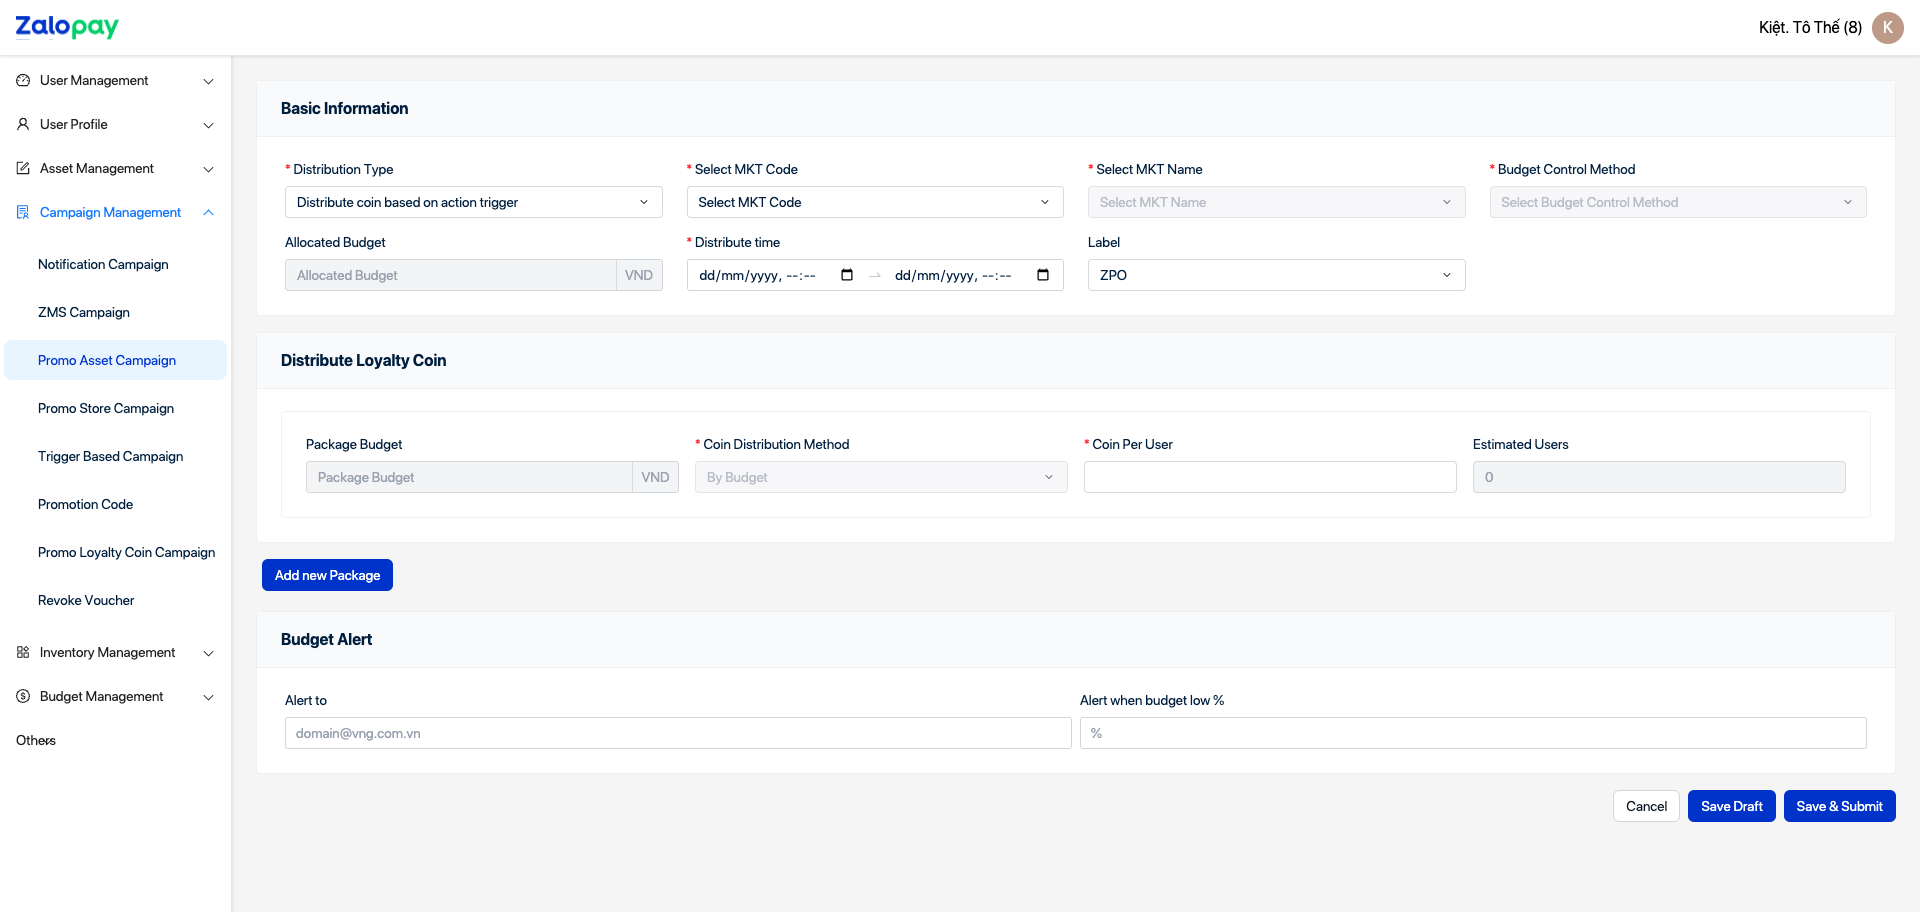
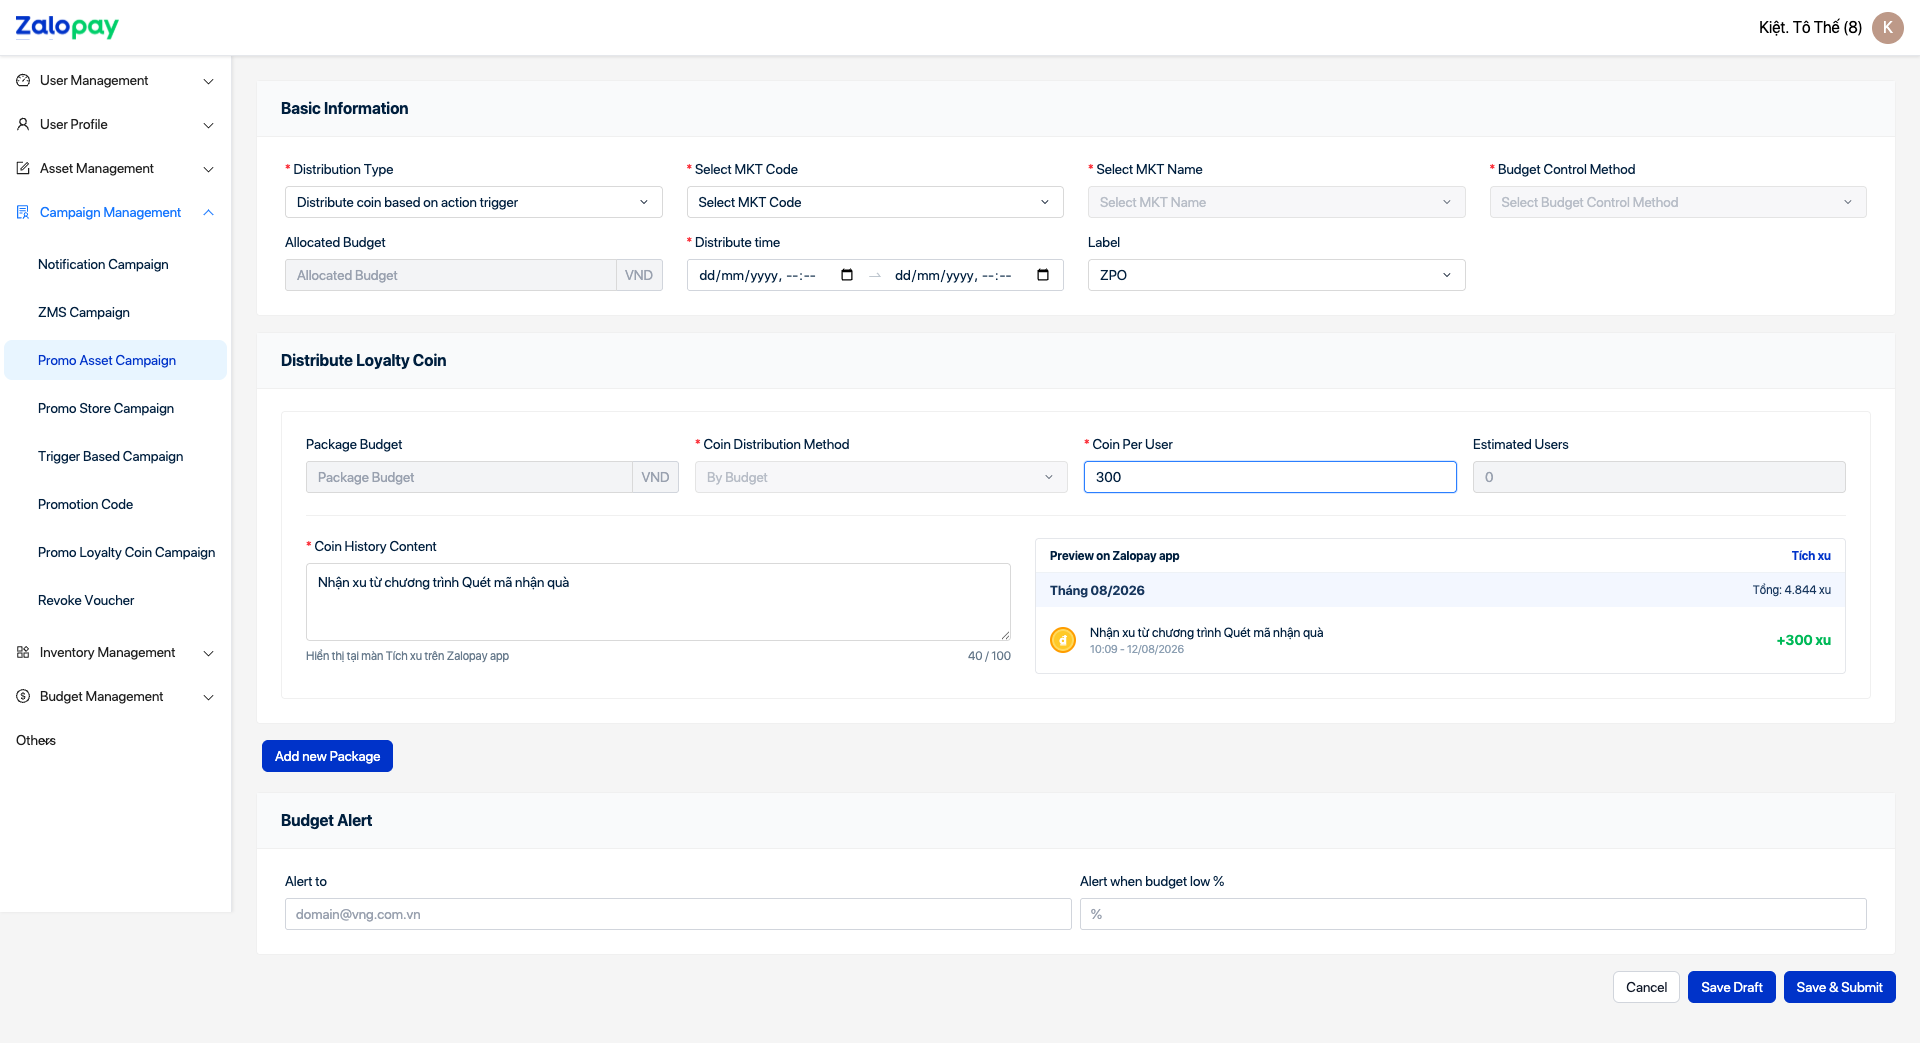
Add coin history content preview

diff --git a/styles.css b/styles.css
@@ -19,7 +19,7 @@
 * { box-sizing: border-box; }
 html { background: var(--canvas); color: #001f3e; font-family: "SF Pro Display", "SF Pro Text", -apple-system, BlinkMacSystemFont, "Segoe UI", sans-serif; font-size: 14px; }
 body { margin: 0; min-width: 320px; color: #001f3e; font-size: 14px; }
-button, input, select { font: inherit; color: inherit; }
+button, input, select, textarea { font: inherit; color: inherit; }
 button { cursor: pointer; }
 button:disabled { cursor: not-allowed; opacity: .5; }
 
@@ -48,7 +48,9 @@ main { margin-left: var(--sidebar); padding-top: var(--topbar); min-height: 100d
 main:focus { outline: none; }
 .screen { padding: 24px; max-width: 1688px; margin: 0 auto; color: #001f3e; font-size: 14px; }
 
-input, select { width: 100%; height: 32px; padding: 0 11px; border: 1px solid #d9d9d9; border-radius: 4px; background: white; outline: none; font-size: 14px; }
+input, select, textarea { width: 100%; padding: 0 11px; border: 1px solid #d9d9d9; border-radius: 4px; background: white; outline: none; font-size: 14px; }
+input, select { height: 32px; }
+textarea { min-height: 72px; padding-block: 8px; line-height: 20px; resize: vertical; }
 select {
   appearance: none;
   -webkit-appearance: none;
@@ -58,9 +60,9 @@ select {
   background-position: right 12px center;
   background-size: 12px 12px;
 }
-input::placeholder { color: var(--placeholder); opacity: 1; }
-input:focus, select:focus, .tag-control:focus-within { border-color: #2b7fff; box-shadow: 0 0 0 1px rgba(43,127,255,.18); }
-input:disabled, select:disabled { color: var(--placeholder); background-color: #f3f4f6; cursor: not-allowed; }
+input::placeholder, textarea::placeholder { color: var(--placeholder); opacity: 1; }
+input:focus, select:focus, textarea:focus, .tag-control:focus-within { border-color: #2b7fff; box-shadow: 0 0 0 1px rgba(43,127,255,.18); }
+input:disabled, select:disabled, textarea:disabled { color: var(--placeholder); background-color: #f3f4f6; cursor: not-allowed; }
 .btn { height: 32px; border-radius: 6px; padding: 0 12px; border: 1px solid transparent; font-size: 14px; line-height: 22px; font-weight: 400; white-space: nowrap; }
 .btn.primary { background: var(--primary); color: white; }
 .btn.primary:hover { background: #002ba9; }
@@ -110,7 +112,7 @@ tbody tr:hover { background: #fbfdff; }
 .field.required > span::before { content: "* "; color: var(--danger); }
 .field small { color: var(--muted); font-size: 10px; min-height: 13px; }
 .field .field-error { color: #e3173c; font-size: 12px; line-height: 16px; min-height: 0; margin-top: -3px; }
-.field.invalid input, .field.invalid select { border-color: var(--danger); }
+.field.invalid input, .field.invalid select, .field.invalid textarea { border-color: var(--danger); }
 .field.invalid .range-field { border-color: var(--danger); }
 .field.invalid .suffix-input b { border-color: var(--danger); }
 .time-field { grid-column: 1 / 2; }
@@ -126,6 +128,23 @@ body.asset-mode .time-field { grid-column: auto; }
 .package-fields.with-consumption.without-present { grid-template-columns: repeat(6, minmax(125px, 1fr)); }
 .package-fields.with-consumption.with-present { grid-template-columns: repeat(7, minmax(112px, 1fr)); }
 .package-fields .package-budget { grid-column: 1; }
+.package-experience { display: grid; grid-template-columns: minmax(340px, 1fr) minmax(420px, 1.15fr); gap: 24px; align-items: stretch; margin-top: 22px; padding-top: 22px; border-top: 1px solid #f0f0f0; }
+.coin-history-field small { display: flex; justify-content: space-between; gap: 12px; min-height: 16px; color: #66798b; font-size: 12px; }
+.pkg-history-count { flex: 0 0 auto; font-variant-numeric: tabular-nums; }
+.coin-history-preview { overflow: hidden; min-height: 134px; border: 1px solid #e5e7eb; border-radius: 4px; background: #fff; }
+.coin-history-preview-head { height: 34px; display: flex; align-items: center; justify-content: space-between; padding: 0 14px; border-bottom: 1px solid #eef2f6; color: #66798b; font-size: 12px; }
+.coin-history-preview-head strong { color: #001f3e; font-weight: 600; }
+.coin-history-preview-head span { color: #0033c9; font-weight: 600; }
+.coin-history-month { height: 34px; display: flex; align-items: center; justify-content: space-between; padding: 0 14px; background: #f3f7ff; color: #17365d; font-size: 12px; }
+.coin-history-month strong { font-size: 13px; }
+.coin-history-row { min-height: 66px; display: grid; grid-template-columns: 30px minmax(0, 1fr) auto; gap: 10px; align-items: center; padding: 10px 14px; }
+.coin-history-icon { width: 26px; height: 26px; display: grid; place-items: center; border: 2px solid #ff9d00; border-radius: 50%; background: #ffc928; color: #fff; box-shadow: inset 0 0 0 2px #ffd95d; }
+.coin-history-icon i { font-size: 13px; line-height: 1; font-style: normal; font-weight: 700; }
+.coin-history-copy { min-width: 0; display: flex; flex-direction: column; gap: 2px; }
+.coin-history-copy strong { overflow-wrap: anywhere; color: #001f3e; font-size: 13px; line-height: 17px; font-weight: 400; }
+.coin-history-copy strong.is-placeholder { color: #99a1af; }
+.coin-history-copy small { color: #8da0b3; font-size: 11px; }
+.pkg-coin-preview { align-self: center; color: #00b958; font-size: 14px; font-weight: 600; white-space: nowrap; }
 .remove-package { position: absolute; top: 12px; right: 16px; width: 28px; height: 28px; border: 1px solid #ffc8cd; color: var(--danger); background: white; border-radius: 3px; }
 .add-package { width: auto; margin: 0 0 20px 6px; }
 .alert-fields { display: grid; grid-template-columns: 1fr 1fr; gap: 8px; }
@@ -290,6 +309,10 @@ body.asset-mode .time-field { grid-column: auto; }
 
 @media (max-width: 1200px) {
   .filter-grid, .basic-fields, .package-fields { grid-template-columns: repeat(2, minmax(160px, 1fr)); }
+  .package-fields.without-consumption.without-present,
+  .package-fields.without-consumption.with-present,
+  .package-fields.with-consumption.without-present,
+  .package-fields.with-consumption.with-present { grid-template-columns: repeat(2, minmax(160px, 1fr)); }
   .filter-actions { grid-column: 1 / -1; }
   .trigger-layout { grid-template-columns: 380px 1fr; }
   .asset-filter-grid,
@@ -297,6 +320,7 @@ body.asset-mode .time-field { grid-column: auto; }
   .asset-filter-actions { grid-column: 1 / -1; }
   .asset-reward-block { grid-template-columns: 1fr 1fr; }
   .asset-voucher-preview { grid-column: 1 / -1; grid-row: auto; }
+  .package-experience { grid-template-columns: 1fr; }
 }
 
 @media (max-width: 780px) {
@@ -309,6 +333,10 @@ body.asset-mode .time-field { grid-column: auto; }
   main { margin-left: 0; }
   .screen { padding: 12px; }
   .filter-grid, .basic-fields, .package-fields, .alert-fields, .trigger-general, .action-config-grid { grid-template-columns: 1fr; }
+  .package-fields.without-consumption.without-present,
+  .package-fields.without-consumption.with-present,
+  .package-fields.with-consumption.without-present,
+  .package-fields.with-consumption.with-present { grid-template-columns: 1fr; }
   .filter-actions, .trigger-description { grid-column: 1; }
   .trigger-description { display: flex; }
   .trigger-layout { grid-template-columns: 1fr; }
@@ -325,6 +353,7 @@ body.asset-mode .time-field { grid-column: auto; }
   .asset-reward-block .asset-field:nth-child(3),
   .asset-reward-block .asset-field:nth-child(4),
   .asset-voucher-preview { grid-column: 1; }
+  .package-experience { grid-template-columns: 1fr; }
 }
 
 @media (prefers-reduced-motion: reduce) {

diff --git a/app.js b/app.js
@@ -3,13 +3,15 @@ function number(value) { return Number(String(value || "").replace(/[^0-9]/g, ""
 function formattedNumber(value) { return number(value) ? money(number(value)) : ""; }
 function statusClass(value) { return value.toLowerCase().replaceAll(" ", "-"); }
 function packageId() { return `pkg-${Date.now()}-${Math.random().toString(16).slice(2)}`; }
-function newPackage() { return { id: packageId(), method: "budget", budget: "", originalBudget: "", consumedBudget: "0", coin: "" }; }
+function escapeHtml(value) { return String(value || "").replace(/[&<>'"]/g, character => ({ "&": "&amp;", "<": "&lt;", ">": "&gt;", "'": "&#39;", '"': "&quot;" })[character]); }
+function newPackage() { return { id: packageId(), method: "budget", budget: "", originalBudget: "", consumedBudget: "0", coin: "", historyContent: "" }; }
 function clonePackages(packages) {
   return packages.map(pkg => ({
     ...pkg,
     id: packageId(),
     originalBudget: String(pkg.budget || pkg.originalBudget || ""),
-    consumedBudget: String(pkg.consumedBudget || 0)
+    consumedBudget: String(pkg.consumedBudget || 0),
+    historyContent: String(pkg.historyContent || "")
   }));
 }
 function displayToIso(value) {
@@ -76,7 +78,8 @@ state.campaigns = state.campaigns.map((campaign, campaignIndex) => {
       originalBudget: String(campaign.packageBudgets?.[packageIndex] ?? packageBudget),
       consumedBudget: String(campaign.consumedBudgets?.[packageIndex] ?? 0),
       coin: String(coin),
-      presentId: campaign.presents[packageIndex] || ""
+      presentId: campaign.presents[packageIndex] || "",
+      historyContent: campaign.historyContents?.[packageIndex] || `Nhận xu từ chương trình ${campaign.name}`
     })),
     ...campaign
   };
@@ -381,7 +384,7 @@ function hydrateCampaignForm(campaign) {
 
 function applyFormAccess(campaign) {
   const form = document.getElementById("campaignForm");
-  const allControls = form.querySelectorAll("input, select");
+  const allControls = form.querySelectorAll("input, select, textarea");
   if (state.formMode === "view") {
     allControls.forEach(control => control.disabled = true);
   } else if (state.formMode === "edit" && !canEditAll()) {
@@ -453,6 +456,8 @@ function renderPackages() {
     const packageBudgetEnabled = hasMkt && control === "package" && (editable || limitedBudgetEdit);
     const { budget: packageBudget, consumedBudget, remainingBudget } = budgetSnapshot(control, pkg);
     const users = number(pkg.coin) ? Math.floor(packageBudget / number(pkg.coin)) : 0;
+    const historyContent = pkg.historyContent.trim();
+    const previewContent = historyContent || "Nội dung lịch sử nhận xu sẽ hiển thị tại đây";
     return `<section class="crm-section package-block" data-id="${pkg.id}">
       <h1>Distribute Loyalty Coin</h1>${editable && state.packages.length > 1 ? "<button type='button' class='remove-package'>×</button>" : ""}
       <div class="package-inner"><div class="package-fields ${packageLayout}">
@@ -463,6 +468,18 @@ function renderPackages() {
         <label class="field required"><span>Coin Per User</span><input class="pkg-coin" inputmode="numeric" value="${formattedNumber(pkg.coin)}" ${editable ? "" : "disabled"}></label>
         <label class="field"><span>Estimated Users</span><input class="pkg-users" value="${money(users)}" disabled></label>
         ${showPresentId ? `<label class="field"><span>Present ID</span><input class="pkg-present" value="${pkg.presentId}" disabled></label>` : ""}
+      </div>
+      <div class="package-experience">
+        <label class="field required coin-history-field"><span>Coin History Content</span><textarea class="pkg-history-content" maxlength="100" rows="3" ${editable ? "" : "disabled"} placeholder="Nhập nội dung hiển thị trong lịch sử nhận xu">${escapeHtml(pkg.historyContent)}</textarea><small><span>Hiển thị tại màn Tích xu trên Zalopay app</span><span class="pkg-history-count">${pkg.historyContent.length} / 100</span></small></label>
+        <div class="coin-history-preview" aria-label="Preview nội dung lịch sử nhận xu">
+          <div class="coin-history-preview-head"><strong>Preview on Zalopay app</strong><span>Tích xu</span></div>
+          <div class="coin-history-month"><strong>Tháng 08/2026</strong><span>Tổng: 4.844 xu</span></div>
+          <div class="coin-history-row">
+            <span class="coin-history-icon" aria-hidden="true"><i>₫</i></span>
+            <span class="coin-history-copy"><strong class="pkg-history-preview ${historyContent ? "" : "is-placeholder"}">${escapeHtml(previewContent)}</strong><small>10:09 - 12/08/2026</small></span>
+            <strong class="pkg-coin-preview">+${money(pkg.coin)} xu</strong>
+          </div>
+        </div>
       </div></div>
     </section>`;
   }).join("");
@@ -484,6 +501,11 @@ function bindPackage(block) {
     }
     updatePackage(block, pkg);
   }));
+  block.querySelector(".pkg-history-content")?.addEventListener("input", event => {
+    pkg.historyContent = event.target.value;
+    if (pkg.historyContent.trim()) clearFieldError(event.target);
+    updatePackage(block, pkg);
+  });
 }
 
 function updatePackage(block, pkg) {
@@ -492,6 +514,14 @@ function updatePackage(block, pkg) {
   const users = number(pkg.coin) ? Math.floor(budget / number(pkg.coin)) : 0;
   if (block.querySelector(".pkg-users")) block.querySelector(".pkg-users").value = money(users);
   if (block.querySelector(".pkg-remaining")) block.querySelector(".pkg-remaining").value = money(remainingBudget);
+  const preview = block.querySelector(".pkg-history-preview");
+  const historyContent = pkg.historyContent.trim();
+  if (preview) {
+    preview.textContent = historyContent || "Nội dung lịch sử nhận xu sẽ hiển thị tại đây";
+    preview.classList.toggle("is-placeholder", !historyContent);
+  }
+  if (block.querySelector(".pkg-coin-preview")) block.querySelector(".pkg-coin-preview").textContent = `+${money(pkg.coin)} xu`;
+  if (block.querySelector(".pkg-history-count")) block.querySelector(".pkg-history-count").textContent = `${pkg.historyContent.length} / 100`;
 }
 
 function bindTagInput(id, type) {
@@ -554,7 +584,7 @@ function setFieldError(control, message) {
 }
 
 function bindValidationClear() {
-  document.querySelectorAll("#campaignForm input, #campaignForm select").forEach(control => {
+  document.querySelectorAll("#campaignForm input, #campaignForm select, #campaignForm textarea").forEach(control => {
     const clear = () => { if (control.value) clearFieldError(control); };
     control.addEventListener("input", clear);
     control.addEventListener("change", clear);
@@ -639,7 +669,8 @@ function validateCampaign() {
     const block = document.querySelector(`.package-block[data-id="${pkg.id}"]`);
     const rules = [
       [".pkg-coin", !number(pkg.coin), "Coin Per User is required"],
-      [".pkg-budget", control === "package" && !number(pkg.budget), "Budget is required"]
+      [".pkg-budget", control === "package" && !number(pkg.budget), "Budget is required"],
+      [".pkg-history-content", !pkg.historyContent.trim(), "Coin History Content is required"]
     ];
     rules.forEach(([selector, invalid, message]) => {
       const input = block?.querySelector(selector);

diff --git a/PRODUCT.md b/PRODUCT.md
@@ -40,6 +40,14 @@ Quen thuộc, chính xác, tiết chế. UI phải nhìn như một phần có s
 - Khi Business edit Package Budget, UI preview Remaining Budget ngay nhưng Save phải revalidate bằng latest consumed snapshot.
 - Không hiển thị Estimated Budget hoặc Budget dư.
 
+## Coin History Content
+
+- Mỗi distribution package có một field mandatory `Coin History Content`, tối đa 100 ký tự.
+- Đây là nội dung End-user nhìn thấy tại màn `Tích xu` trên Zalopay app; không dùng lại campaign description nội bộ.
+- UI preview realtime nội dung và `Coin Per User` để Business kiểm tra trước khi Save.
+- Field editable tại Create, Draft, Rejected; read-only từ `FA Review`, `Approved`, `Auto Approved`, `In Use`, `Distributing`, `Ended`.
+- Khi Submit mà bỏ trống, chặn lưu và hiển thị inline error `Coin History Content is required`.
+
 ## Accessibility & Inclusion
 
 Keyboard usable, focus visible, label không thay bằng placeholder, semantic status không chỉ dựa vào màu và hỗ trợ reduced motion.
